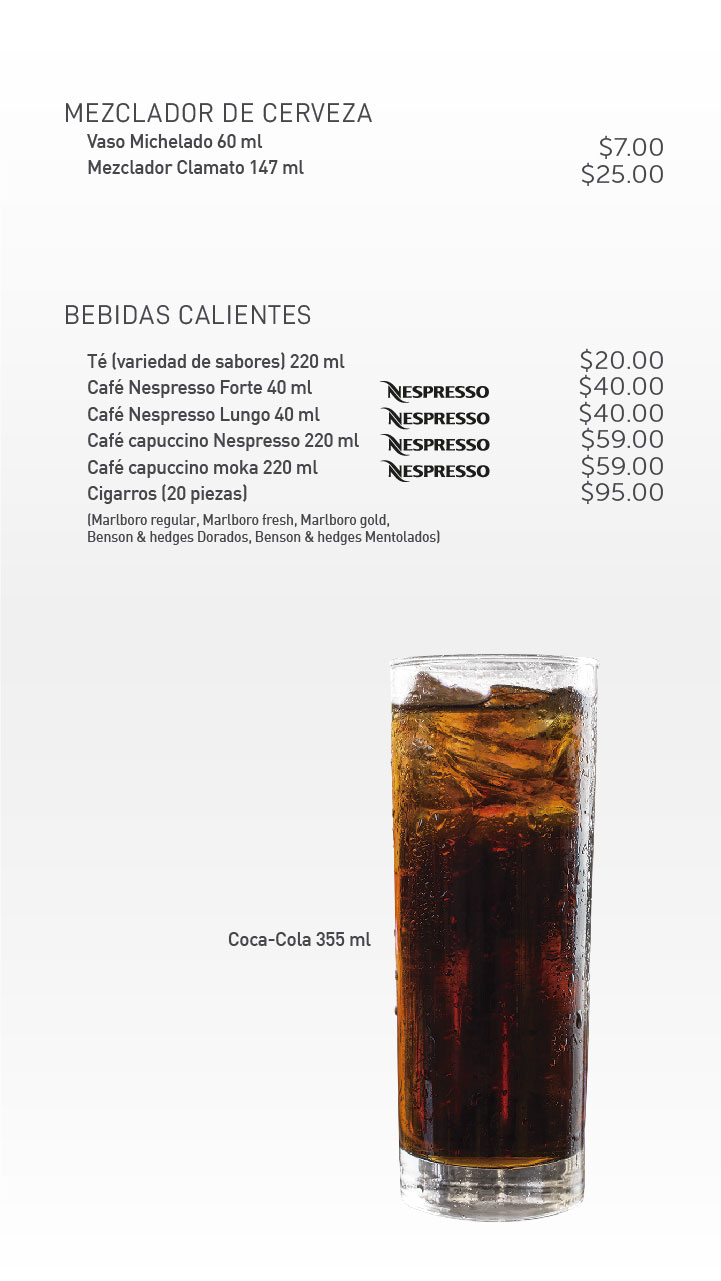
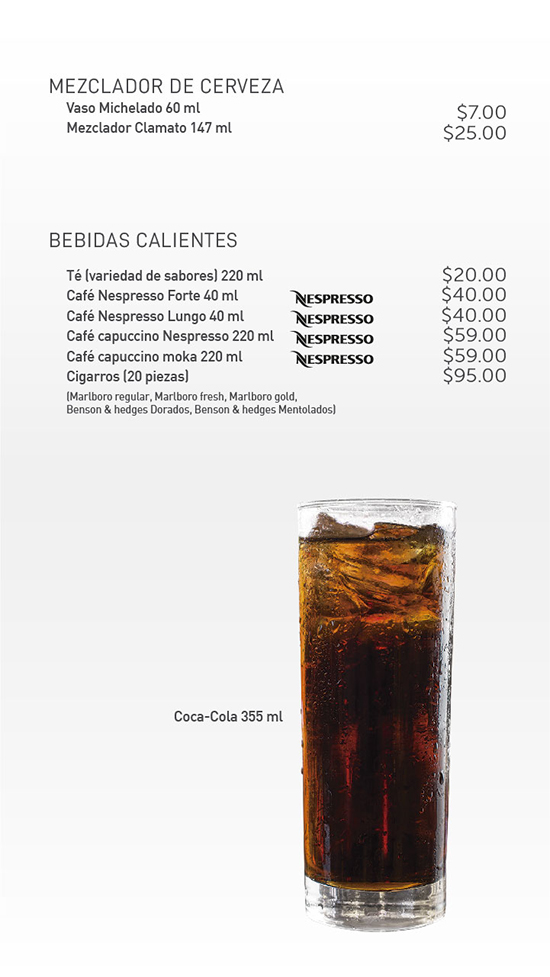
redice size images

diff --git a/index.html b/index.html
@@ -16,8 +16,8 @@ body{
 	background:#ccc;
 }
 #magazine{
-	width:720px;
-	height:1280px;
+	width:550px;
+	height:977px;
 }
 #magazine .turn-page{
 	background-color:#ccc;
